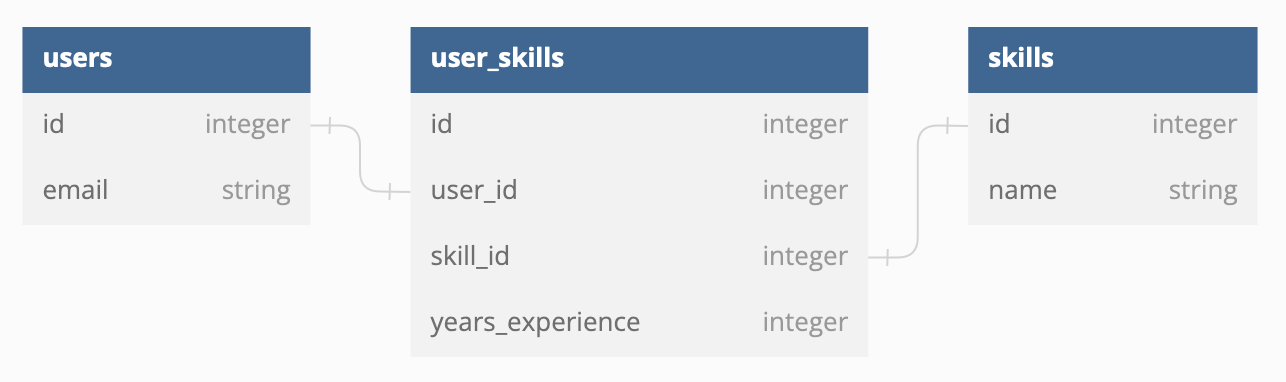
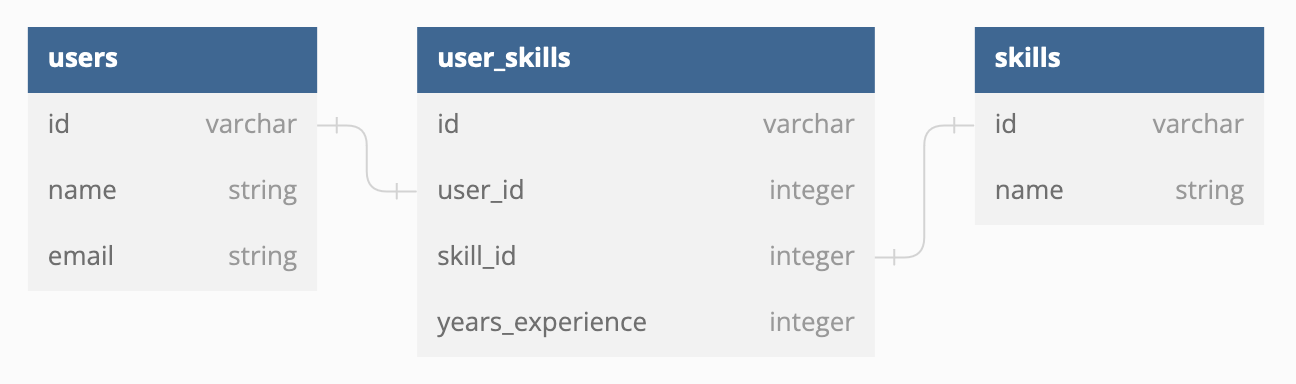
Add a user name

diff --git a/db/seeds.rb b/db/seeds.rb
@@ -7,7 +7,7 @@
 #   Character.create(name: "Luke", movie: movies.first)
 
 5000.times do
-  user = User.create(email: Faker::Internet.email) rescue nil
+  user = User.create(email: Faker::Internet.email, name: Faker::Name.name) rescue nil
   puts user.email
 end
 

diff --git a/db/schema.rb b/db/schema.rb
@@ -24,6 +24,7 @@ ActiveRecord::Schema[7.0].define(version: 2023_07_13_025631) do
   end
 
   create_table "users", force: :cascade do |t|
+    t.string "name", null: false
     t.string "email", null: false
   end
 

diff --git a/db/migrate/20230713025631_add_base_models.rb b/db/migrate/20230713025631_add_base_models.rb
@@ -1,6 +1,7 @@
 class AddBaseModels < ActiveRecord::Migration[7.0]
   def change
     create_table :users do |t|
+      t.string :name, null: false
       t.string :email, null: false
     end
 
